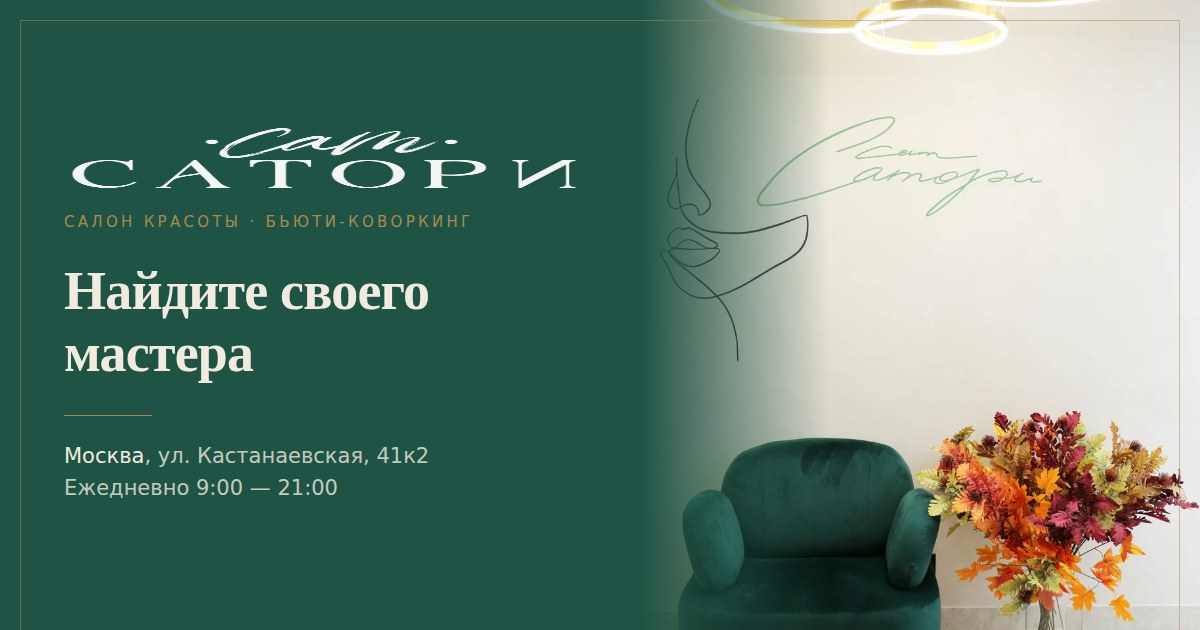
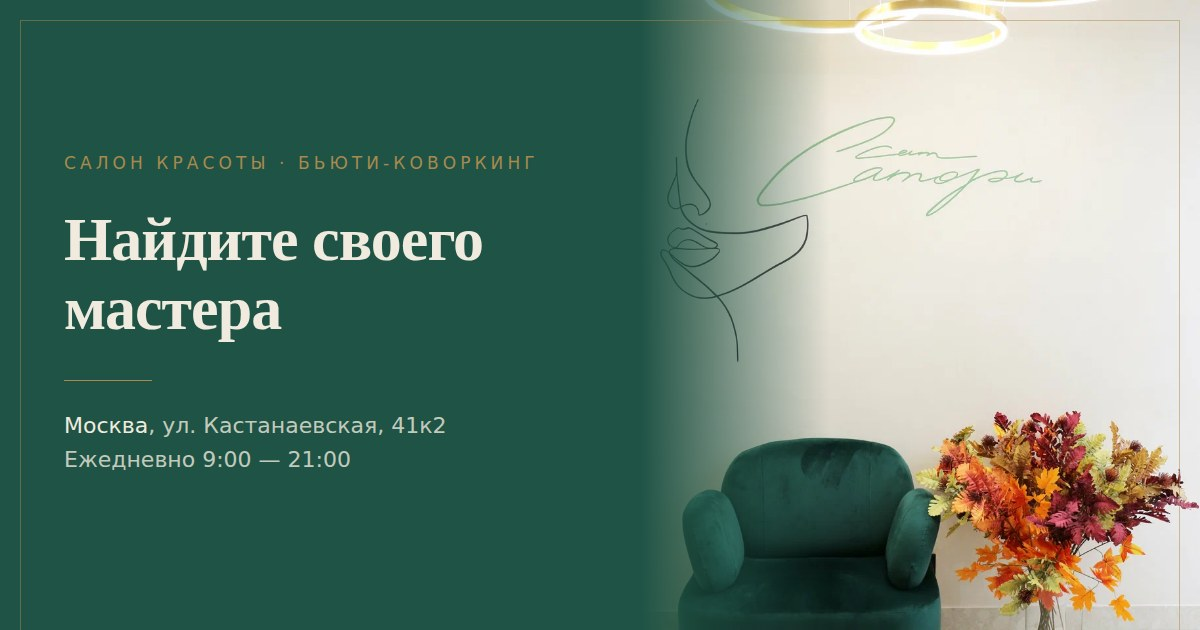
Карточка превью: убрана надпись-логотип
Надпись «САТОРИ» на карточке выглядела растянутой. Убрана целиком,
как просил владелец. Осталась метка «Салон красоты · бьюти-коворкинг»,
слоган, золотая линия, адрес и часы работы — им отдано освободившееся
место, слоган стал крупнее (54 -> 62px).

Название салона на карточке всё равно читается: оно есть на росписи
стены в правой части фото, а рядом с превью мессенджер показывает
заголовок ссылки «Сатори — салон красоты в Москве».

К адресу картинки добавлен ?v=2: мессенджеры кэшируют превью очень
надолго и по неизменившемуся адресу продолжали бы показывать старую
карточку с логотипом.

Changed region(s): [[0.0308, 0.3317, 0.4008, 0.7841], [0.0617, 0.181, 0.4933, 0.3016]]

diff --git a/index.html b/index.html
@@ -32,7 +32,11 @@
        и соцсети. Файл images/og.jpg, строго 1200×630. Чтобы поменять —
        загрузите своё изображение с тем же именем и размером; ширину
        и высоту ниже тогда менять не нужно. -->
-  <meta property="og:image" content="https://satori.beauty/images/og.jpg" />
+  <!-- ?v=2 в адресе картинки — мессенджеры кэшируют превью очень надолго
+       и по неизменившемуся адресу продолжают показывать старое. Если
+       будете менять og.jpg — увеличьте число (?v=3), иначе Telegram
+       и WhatsApp могут месяцами показывать прежнюю карточку. -->
+  <meta property="og:image" content="https://satori.beauty/images/og.jpg?v=2" />
   <meta property="og:image:width" content="1200" />
   <meta property="og:image:height" content="630" />
   <meta property="og:image:alt" content="Салон красоты «Сатори» — Москва, ул. Кастанаевская, 41к2" />
@@ -42,7 +46,7 @@
   <meta name="twitter:card" content="summary_large_image" />
   <meta name="twitter:title" content="Сатори — салон красоты в Москве" />
   <meta name="twitter:description" content="Ул. Кастанаевская, 41к2, рядом с метро Филёвский парк. Парикмахеры, ногтевой сервис, косметология. Ежедневно 9:00–21:00." />
-  <meta name="twitter:image" content="https://satori.beauty/images/og.jpg" />
+  <meta name="twitter:image" content="https://satori.beauty/images/og.jpg?v=2" />
 
   <!-- ============================================================= -->
   <!-- РЕДАКТИРУЕМО: карточка организации для поисковиков (Schema.org).
